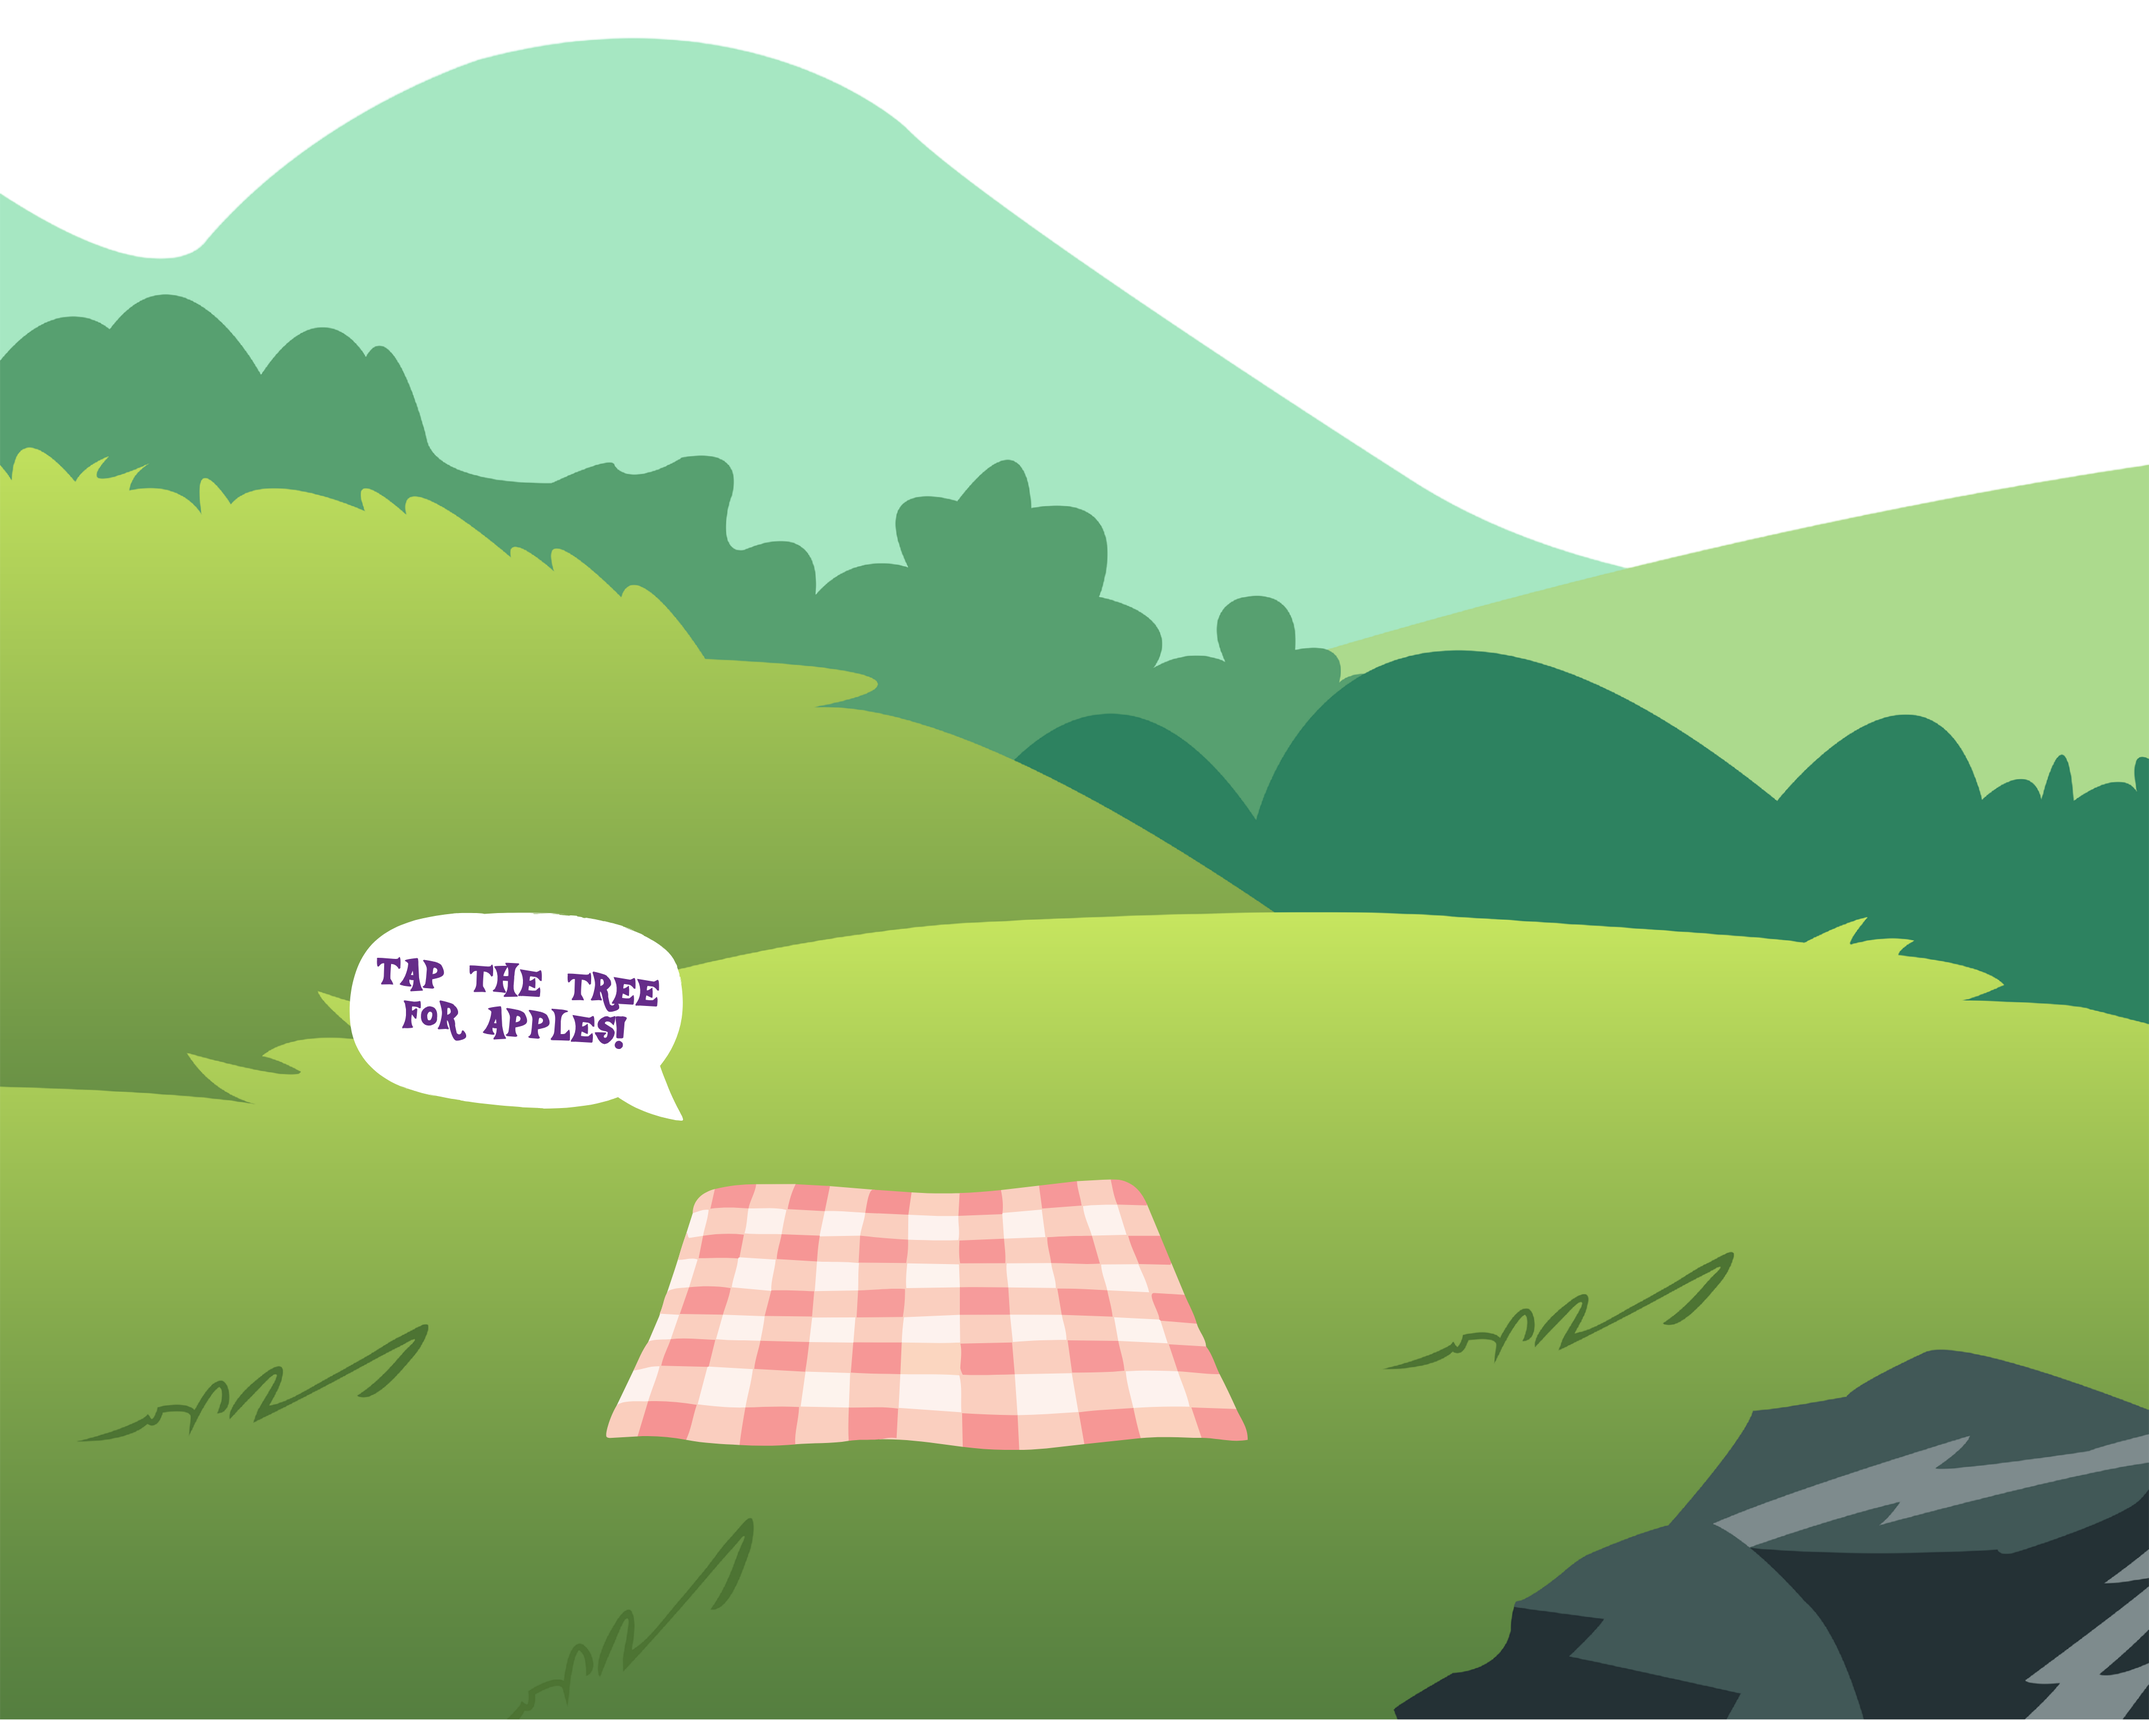
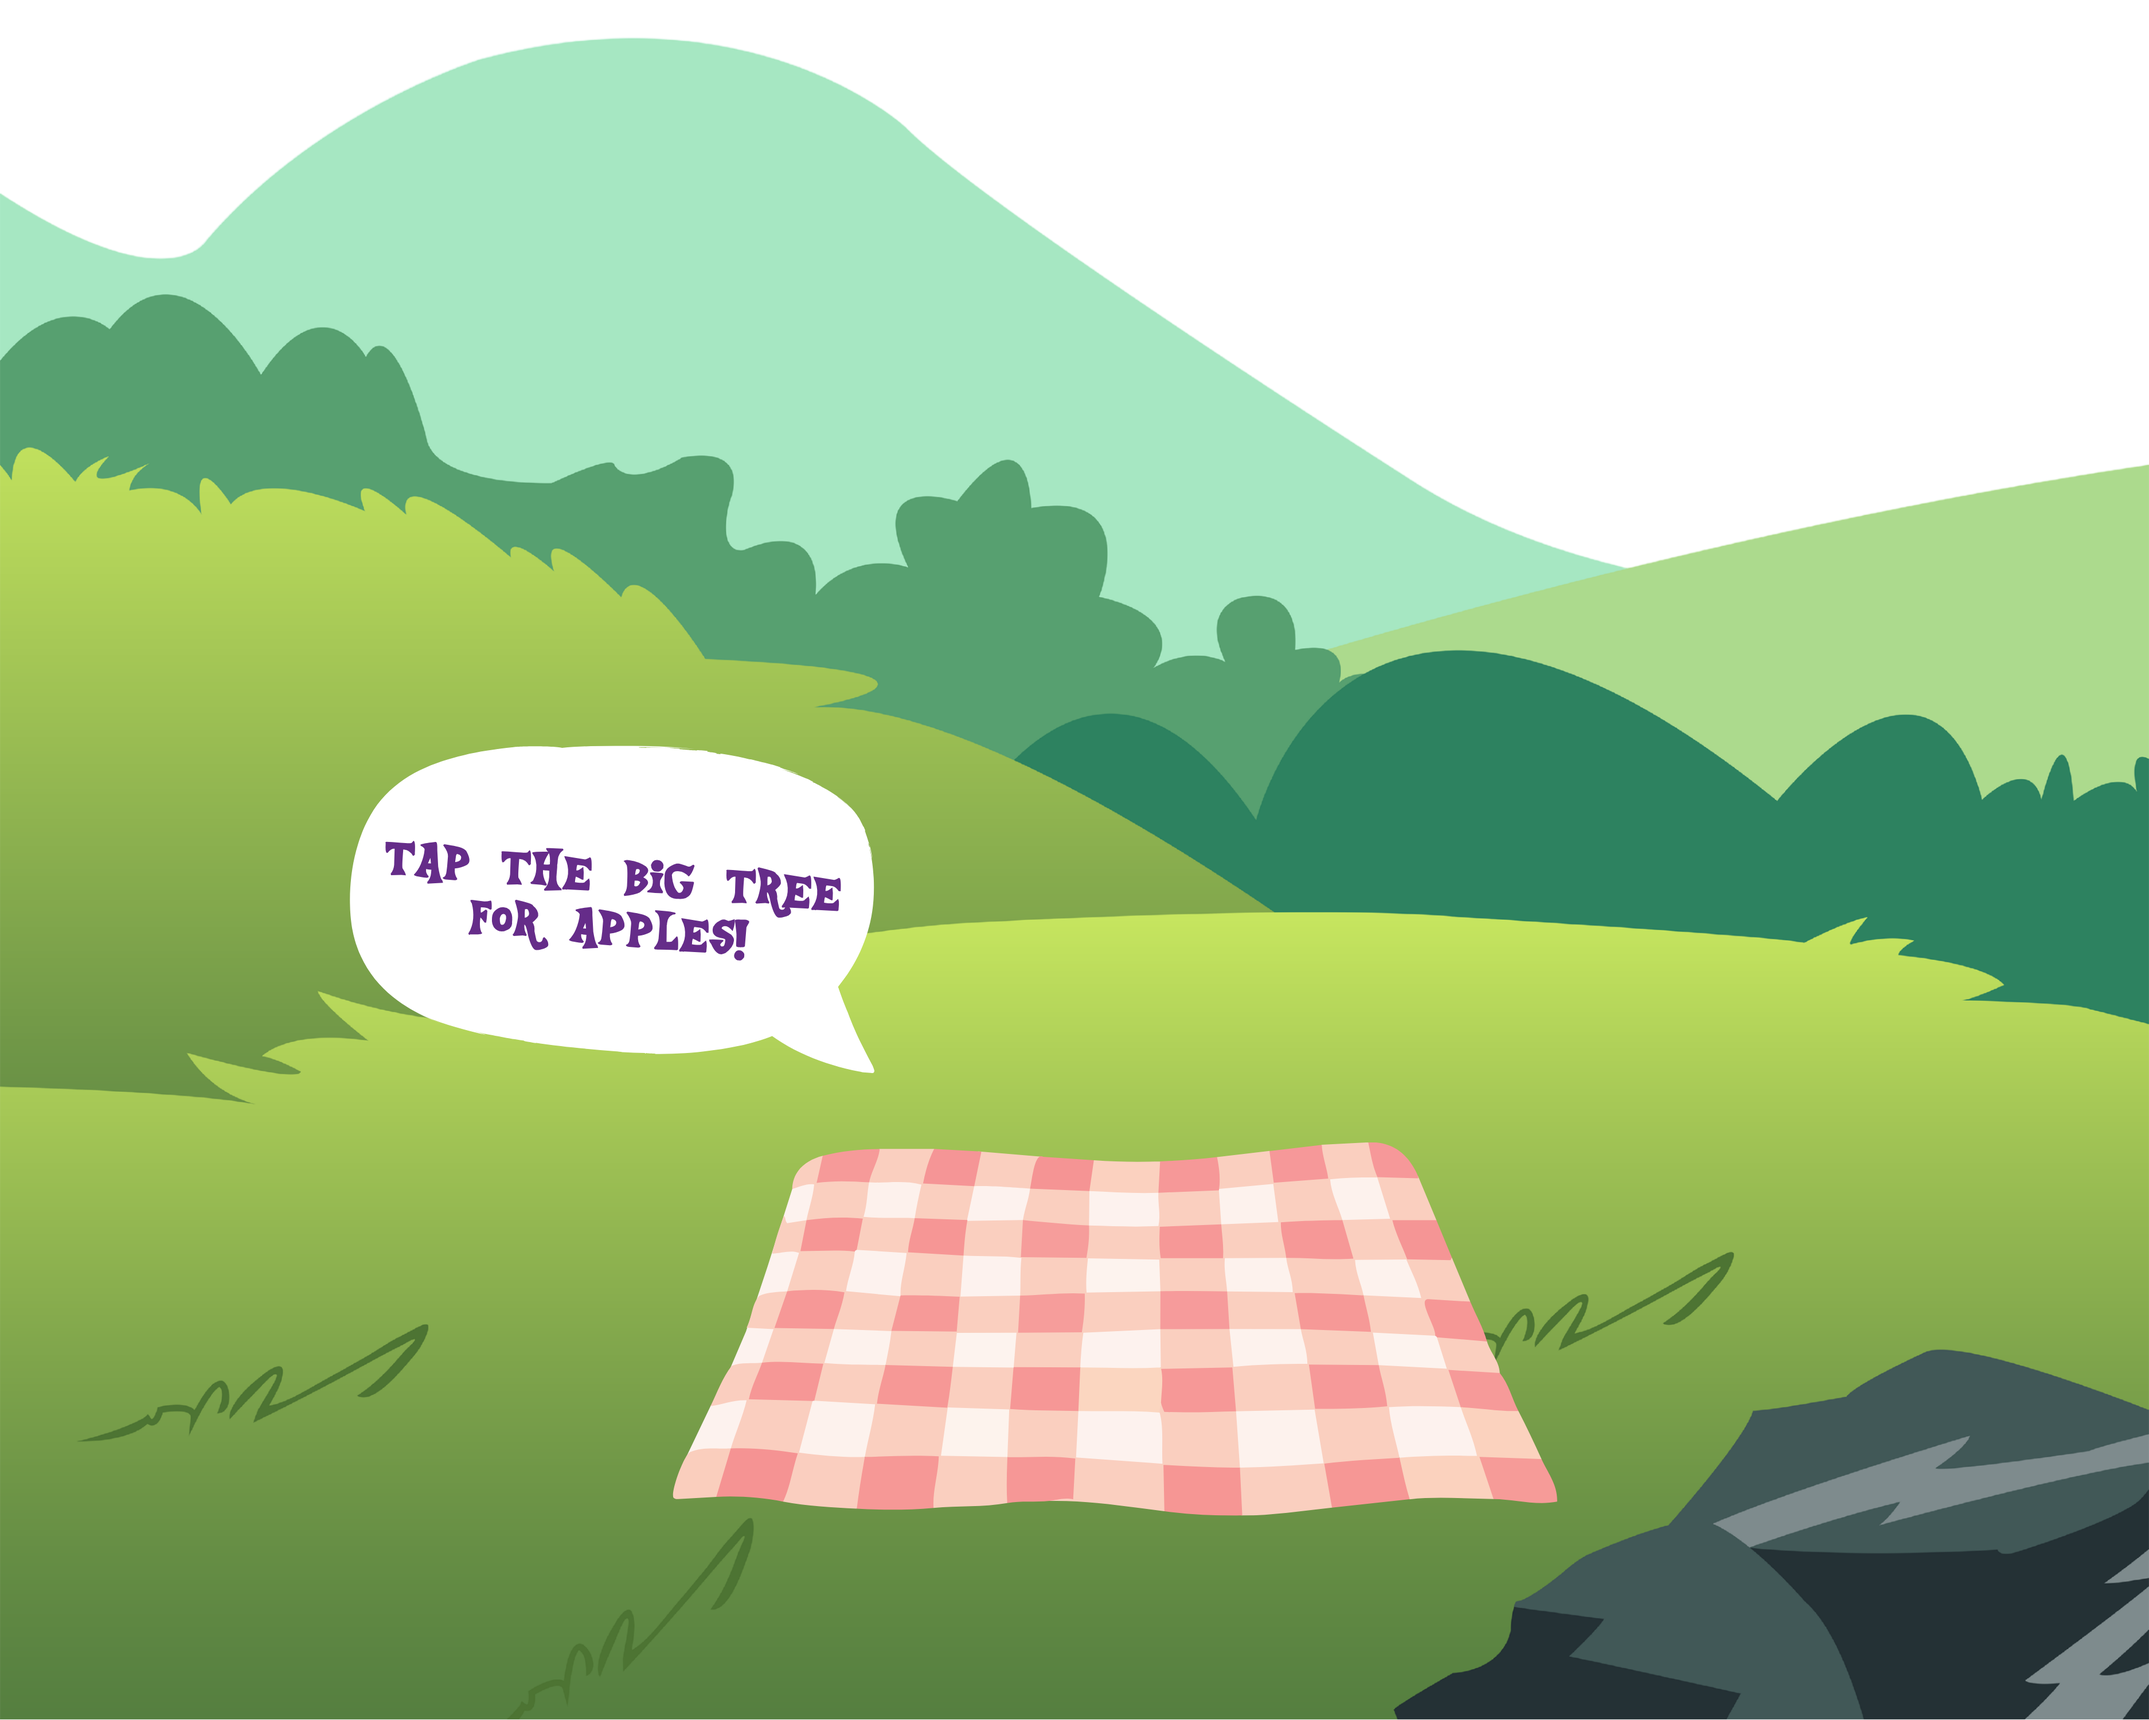
fixed background

Changed region(s): [[0.2809, 0.6512, 0.718, 0.8993], [0.1561, 0.4341, 0.4058, 0.6512]]

diff --git a/front/html/background.html b/front/html/background.html
@@ -41,9 +41,9 @@
 <div class="grass-wrap" data-mount="background-bottom">
   <img class="grass" src="../../media/image/trees/grass.png" alt="" aria-hidden="true" />
   <img class="tree tree-2" src="../../media/image/trees/tree2.png" alt="" />
-  <img class="tree tree-1" src="../../media/image/trees/tree1.png" alt="" />
   <img class="applejack" src="../../media/image/trees/applejack.png" alt="Applejack" />
   <img class="tree tree-3" src="../../media/image/trees/tree3.png" alt="" />
   <img class="tree tree-4" src="../../media/image/trees/tree4.png" alt="" />
   <img class="tree tree-5" src="../../media/image/trees/tree5.png" alt="" />
+  <img class="tree tree-1" src="../../media/image/trees/tree1.png" alt="" />
 </div>

diff --git a/front/css/background.css b/front/css/background.css
@@ -486,9 +486,9 @@
 
 /* tree1 is the main tree, centered */
 .tree-1 {
-  width: 36%;
-  left: 50%;
-  bottom: 32%;
+  width: 50%;
+  left: 60%;
+  bottom: 35%;
   transform: translateX(-50%);
   cursor: pointer;
   pointer-events: auto;
@@ -497,10 +497,10 @@
 /* Applejack stands right beside the main tree (tree1 spans 32% to 68% of the width) */
 .applejack {
   position: absolute;
-  width: 14%;
+  width: 20%;
   height: auto;
-  left: 28%;
-  bottom: 21%;
+  left: 36%;
+  bottom: 20%;
   z-index: 1;
   pointer-events: none;
 }
@@ -538,8 +538,8 @@
 /* the rest flank it, scattered wider and bigger */
 .tree-2 {
   width: 24%;
-  left: 14%;
-  bottom: 50%;
+  left: 10%;
+  bottom: 60%;
 }
 
 .tree-3 {
